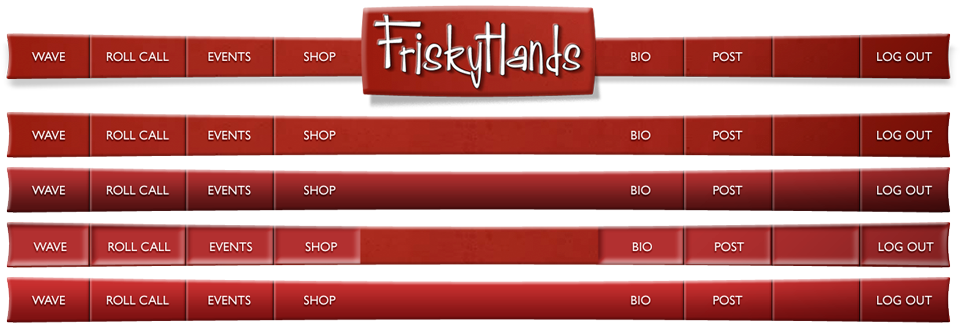
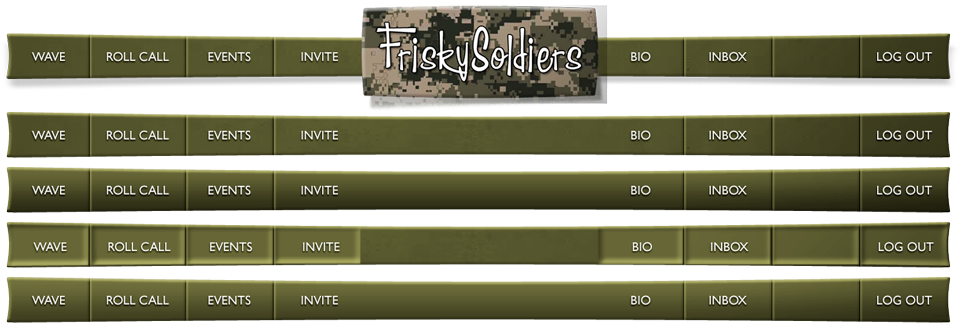
Added friskyforces graphic assets

diff --git a/public/stylesheets/friskyforces/application.css b/public/stylesheets/friskyforces/application.css
@@ -1,3 +1,7 @@
+body {
+	background: url('/images/friskyforces/fibers.jpg') repeat top center #415943;
+}
+
 .header.primary { 
 	background: url('/images/friskyforces/header.png') no-repeat top center;
 }
@@ -5,3 +9,17 @@
 .header.primary ul.nav li a {
 	background-image: url('/images/friskyforces/header.png');
 }
+
+.page.footer {
+	color: #FFF;
+}
+
+.header.secondary { 
+	color: #FFF
+}
+
+.header.secondary a:visited,
+.header.secondary a:active {
+    color: #FFF;
+}
+
